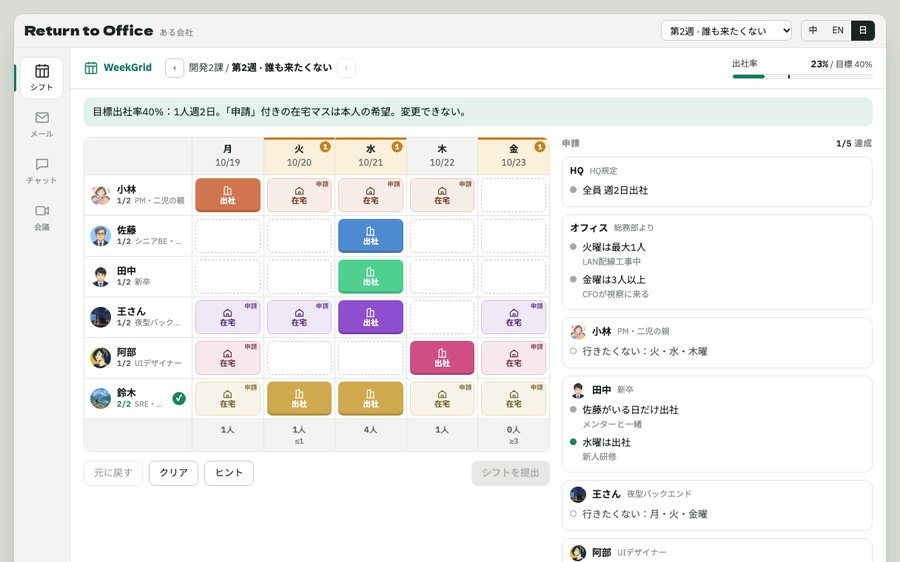
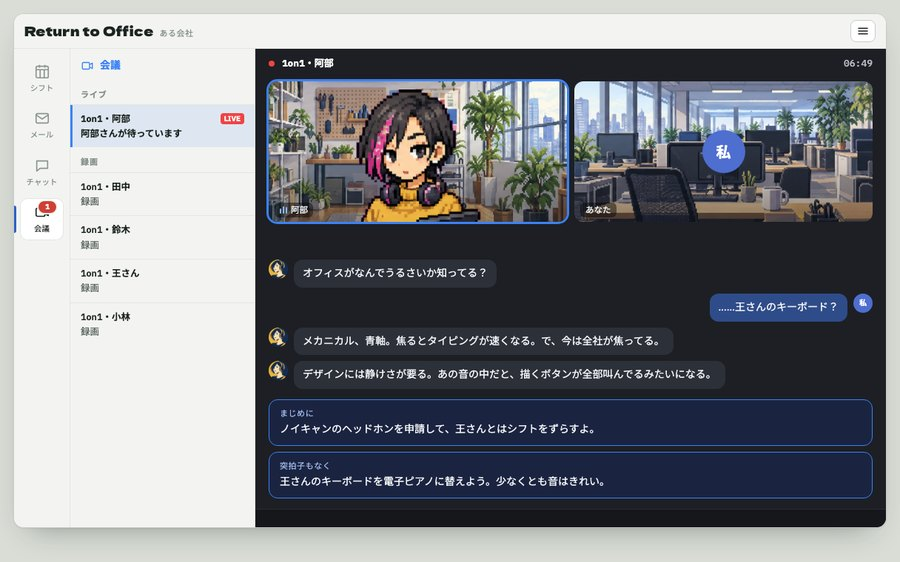
RTO: drop the desktop home link, use a 1:1 meeting as the cover
The portal link already lives in the menu.

diff --git a/games/rto/src/main.js b/games/rto/src/main.js
@@ -169,7 +169,7 @@ function renderDesktop() {
   const returning = S.feed.length > 1 || S.done.size > 0;
   const pending = S.feed.filter(f => !f.read).length + unreadOf('grid');
   $('desktop').innerHTML = `
-    <div class="menubar"><a class="home" href="../">← ${S.lang === 'en' ? 'Gratin Game' : 'グラタンゲーム'}</a><b>${esc(tr(COMPANY))}</b><span class="sp"></span><span class="clock">${esc(clock)}</span>
+    <div class="menubar"><b>${esc(tr(COMPANY))}</b><span class="sp"></span><span class="clock">${esc(clock)}</span>
       <button class="menu-btn" id="deskmenu" type="button" aria-haspopup="menu" aria-expanded="false" aria-label="${esc(u('menu'))}">${ICON.menu}</button></div>
     <button class="notif" id="notif">${av('hr')}<div class="nh"><b>${esc(u('notifFrom'))}</b><span>${esc(u('notifNow'))}</span></div><p>${esc(u(returning ? 'notifBack' : 'notifNew'))}</p></button>
     <div class="deskmain">
@@ -945,11 +945,19 @@ if (import.meta.env.DEV) {
   Object.assign(window, { rto: { get S() { return S; }, freshState, render, advance, openItem, openApp, jumpTo, launch, gridOf, asHome, feedItem, kindOf, idOf, showPop, closePop, solve, LEVELS, CHATS } });
 }
 
-if (new URLSearchParams(location.search).has('cover')) {
+const COVER = new URLSearchParams(location.search).get('cover');
+if (COVER !== null) {
   S.tut = true; S.open = true;
   $('desktop').hidden = true; $('screen').hidden = false;
-  jumpTo(1);
-  const g = gridOf(1), sol = solve(LEVELS[1], 1)[0];
-  [[0, 0], [1, 2], [2, 2], [3, 2], [4, 3], [5, 1], [5, 2]].forEach(([p, d]) => { g[p][d] = sol[p][d]; });
+  if (COVER === 'meet') {
+    jumpTo(7);
+    feedItem('talk:abe').read = false;
+    S.view = { ...S.view, app: 'meet', meet: 'talk:abe' };
+    S.tk = { key: 'talk:abe', pos: 4, pick: null, end: false };
+  } else {
+    jumpTo(1);
+    const g = gridOf(1), sol = solve(LEVELS[1], 1)[0];
+    [[0, 0], [1, 2], [2, 2], [3, 2], [4, 3], [5, 1], [5, 2]].forEach(([p, d]) => { g[p][d] = sol[p][d]; });
+  }
   render();
 }

diff --git a/games/rto/src/style.css b/games/rto/src/style.css
@@ -415,8 +415,6 @@ button:focus-visible, select:focus-visible, a:focus-visible, [tabindex]:focus-vi
 .desktop { max-width: 1180px; margin: 0 auto; min-height: 700px; border-radius: 14px; overflow: hidden; position: relative; border: 1px solid var(--line-strong); box-shadow: var(--shadow); background: radial-gradient(120% 90% at 20% 10%, #2f8f78 0%, #17594b 45%, #0e2f2a 100%); color: #f2f6f4; display: flex; flex-direction: column; }
 .desktop::before { content: ""; position: absolute; inset: 0; background: radial-gradient(60% 50% at 85% 85%, rgba(255, 214, 140, .22), transparent 70%), repeating-linear-gradient(90deg, rgba(255,255,255,.035) 0 1px, transparent 1px 64px), repeating-linear-gradient(0deg, rgba(255,255,255,.035) 0 1px, transparent 1px 64px); pointer-events: none; }
 .menubar { position: relative; display: flex; align-items: center; gap: 14px; padding: 6px 14px; background: rgba(8, 20, 18, .35); backdrop-filter: blur(8px); font-size: 12.5px; }
-.menubar .home { color: #f2f6f4; text-decoration: none; font-size: 12px; opacity: .85; padding: 2px 8px; border-radius: 6px; background: rgba(255,255,255,.08); }
-.menubar .home:hover { opacity: 1; background: rgba(255,255,255,.16); }
 .menubar b { font-family: var(--f-display); font-weight: 400; font-size: 14px; letter-spacing: .03em; }
 .menubar .sp { flex: 1; }
 .menubar .clock { font-family: var(--f-mono); font-size: 12px; opacity: .9; }
